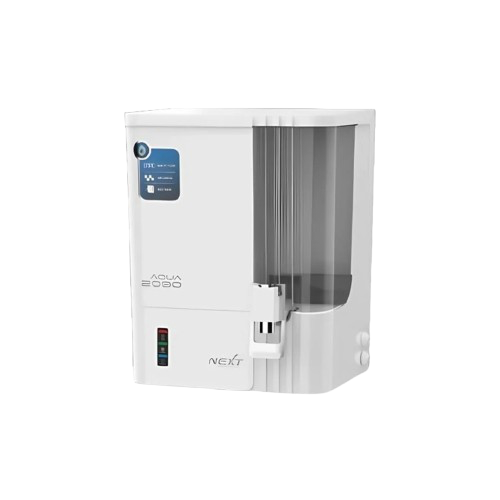
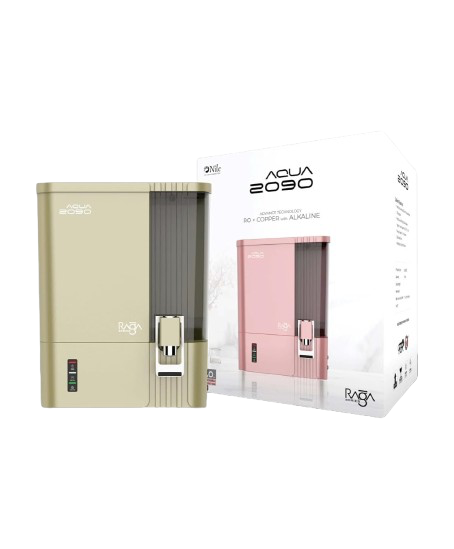
more

Changed region(s): [[0.0617, 0.21, 0.9251, 0.81], [0.8634, 0.3, 0.8943, 0.45], [0.8634, 0.48, 0.8943, 0.51]]

diff --git a/product1.html b/product1.html
@@ -44,20 +44,31 @@
                 <!-- Product Gallery -->
                 <div class="product-gallery">
                     <div class="main-image">
-                        <img id="mainImage" src="assets/waterpurifier1.webp" alt="AQUA 2090 Water Purifier">
+                        <img id="mainImage" src="assets/product photo/71qvMnALsbL._SL1323_.jpg" alt="AQUA 2090 Water Purifier">
                     </div>
-                    <div class="thumbnail-gallery">
-                        <div class="thumbnail active" onclick="changeImage('https://images.unsplash.com/photo-1558618666-fcd25c85cd64?ixlib=rb-4.0.3&auto=format&fit=crop&w=800&q=80', this)">
-                            <img src="https://images.unsplash.com/photo-1558618666-fcd25c85cd64?ixlib=rb-4.0.3&auto=format&fit=crop&w=200&q=80" alt="Water Purifier Front View">
+                    
+                    <!-- Product Images Grid -->
+                    <div class="product-images-grid">
+                        <div class="grid-image" onclick="changeImage('assets/product photo/71qvMnALsbL._SL1323_.jpg', this)">
+                            <img src="assets/product photo/71qvMnALsbL._SL1323_.jpg" alt="Water Purifier Front View">
                         </div>
-                        <div class="thumbnail" onclick="changeImage('https://images.unsplash.com/photo-1581094794329-c8112a89af12?ixlib=rb-4.0.3&auto=format&fit=crop&w=800&q=80', this)">
-                            <img src="https://images.unsplash.com/photo-1581094794329-c8112a89af12?ixlib=rb-4.0.3&auto=format&fit=crop&w=200&q=80" alt="Water Purifier Side View">
+                        <div class="grid-image" onclick="changeImage('assets/product photo/61gHcF-yekL._SL1120_.jpg', this)">
+                            <img src="assets/product photo/61gHcF-yekL._SL1120_.jpg" alt="Water Purifier Side View">
                         </div>
-                        <div class="thumbnail" onclick="changeImage('https://images.unsplash.com/photo-1556761175-b413da4baf72?ixlib=rb-4.0.3&auto=format&fit=crop&w=800&q=80', this)">
-                            <img src="https://images.unsplash.com/photo-1556761175-b413da4baf72?ixlib=rb-4.0.3&auto=format&fit=crop&w=200&q=80" alt="Water Purifier Installation">
+                        <div class="grid-image" onclick="changeImage('assets/product photo/61x3ZuBd3pL._SL1500_.jpg', this)">
+                            <img src="assets/product photo/61x3ZuBd3pL._SL1500_.jpg" alt="Water Purifier Installation">
                         </div>
-                        <div class="thumbnail" onclick="changeImage('https://images.unsplash.com/photo-1581094794329-c8112a89af12?ixlib=rb-4.0.3&auto=format&fit=crop&w=800&q=80', this)">
-                            <img src="https://images.unsplash.com/photo-1581094794329-c8112a89af12?ixlib=rb-4.0.3&auto=format&fit=crop&w=200&q=80" alt="Water Purifier Features">
+                        <div class="grid-image" onclick="changeImage('assets/product photo/615PhfeLmXL._SL1500_.jpg', this)">
+                            <img src="assets/product photo/615PhfeLmXL._SL1500_.jpg" alt="Water Purifier Features">
+                        </div>
+                        <div class="grid-image" onclick="changeImage('assets/product photo/61hOl9UvFSL._SL1500_.jpg', this)">
+                            <img src="assets/product photo/61hOl9UvFSL._SL1500_.jpg" alt="Water Purifier Details">
+                        </div>
+                        <div class="grid-image" onclick="changeImage('assets/product photo/51mfuQ8Ha3L._SL1500_.jpg', this)">
+                            <img src="assets/product photo/51mfuQ8Ha3L._SL1500_.jpg" alt="Water Purifier Close-up">
+                        </div>
+                        <div class="grid-image" onclick="changeImage('assets/product photo/41TYWM+SBLL._SY679_.jpg', this)">
+                            <img src="assets/product photo/41TYWM+SBLL._SY679_.jpg" alt="Water Purifier Box">
                         </div>
                     </div>
                 </div>

diff --git a/styles.css b/styles.css
@@ -2203,6 +2203,72 @@ html, body {
     font-weight: 500;
 }
 
+/* Product Images Grid */
+.product-images-grid {
+    display: grid;
+    grid-template-columns: repeat(4, 1fr);
+    gap: 1rem;
+    margin-top: 1.5rem;
+}
+
+.grid-image {
+    width: 100%;
+    height: 120px;
+    border-radius: 8px;
+    overflow: hidden;
+    cursor: pointer;
+    border: 2px solid transparent;
+    transition: all 0.3s ease;
+    background: #f8f9fa;
+}
+
+.grid-image:hover {
+    border-color: #1a73e8;
+    transform: translateY(-2px);
+    box-shadow: 0 4px 12px rgba(26, 115, 232, 0.2);
+}
+
+.grid-image.active {
+    border-color: #1a73e8;
+    box-shadow: 0 4px 12px rgba(26, 115, 232, 0.3);
+}
+
+.grid-image img {
+    width: 100%;
+    height: 100%;
+    object-fit: cover;
+    transition: transform 0.3s ease;
+}
+
+.grid-image:hover img {
+    transform: scale(1.05);
+}
+
+/* Responsive Product Images Grid */
+@media (max-width: 768px) {
+    .product-images-grid {
+        grid-template-columns: repeat(3, 1fr);
+        gap: 0.75rem;
+        margin-top: 1rem;
+    }
+    
+    .grid-image {
+        height: 100px;
+    }
+}
+
+@media (max-width: 480px) {
+    .product-images-grid {
+        grid-template-columns: repeat(2, 1fr);
+        gap: 0.5rem;
+        margin-top: 0.75rem;
+    }
+    
+    .grid-image {
+        height: 80px;
+    }
+}
+
 /* Responsive Design */
 @media (max-width: 768px) {
     .container {
@@ -2261,14 +2327,6 @@ html, body {
     }
     
     .contact .container {
-        max-width: 100vw;
-        width: 100%;
-        padding: 0 1rem;
-        margin: 0;
-        overflow-x: hidden;
-    }
-    
-    .footer .container {
         max-width: 100vw;
         width: 100%;
         padding: 0 1rem;

diff --git a/script.js b/script.js
@@ -1,10 +1,16 @@
 // Product Gallery Functionality
-function changeImage(thumbnail, imageSrc) {
-    document.getElementById('mainProductImage').src = imageSrc;
-    document.querySelectorAll('.thumbnail').forEach(thumb => {
-        thumb.classList.remove('active');
+function changeImage(imageSrc, clickedElement) {
+    document.getElementById('mainImage').src = imageSrc;
+    
+    // Remove active class from all grid images
+    document.querySelectorAll('.grid-image').forEach(img => {
+        img.classList.remove('active');
     });
-    thumbnail.classList.add('active');
+    
+    // Add active class to clicked element
+    if (clickedElement) {
+        clickedElement.classList.add('active');
+    }
 }
 
 // Quantity Selector Functionality
@@ -338,8 +344,15 @@ const observer = new IntersectionObserver((entries) => {
     });
 }, observerOptions);
 
-// Observe elements for animation
+// Initialize product functionality
 document.addEventListener('DOMContentLoaded', () => {
+    // Set first grid image as active by default
+    const firstGridImage = document.querySelector('.grid-image');
+    if (firstGridImage) {
+        firstGridImage.classList.add('active');
+    }
+    
+    // Observe elements for animation
     const animateElements = document.querySelectorAll('.feature-card, .stat, .contact-item, .product-card, .section-header');
     
     animateElements.forEach(el => {

diff --git a/index.html b/index.html
@@ -166,7 +166,7 @@
                 <div class="product-card featured">
                     <div class="product-gallery">
                         <div class="main-image">
-                            <img src="assets/waterpurifier1.webp" alt="AQUA Water Purifier">
+                            <img src="assets/waterpurifier.png" alt="AQUA Water Purifier">
                         </div>
                     </div>
                     <div class="product-content">
